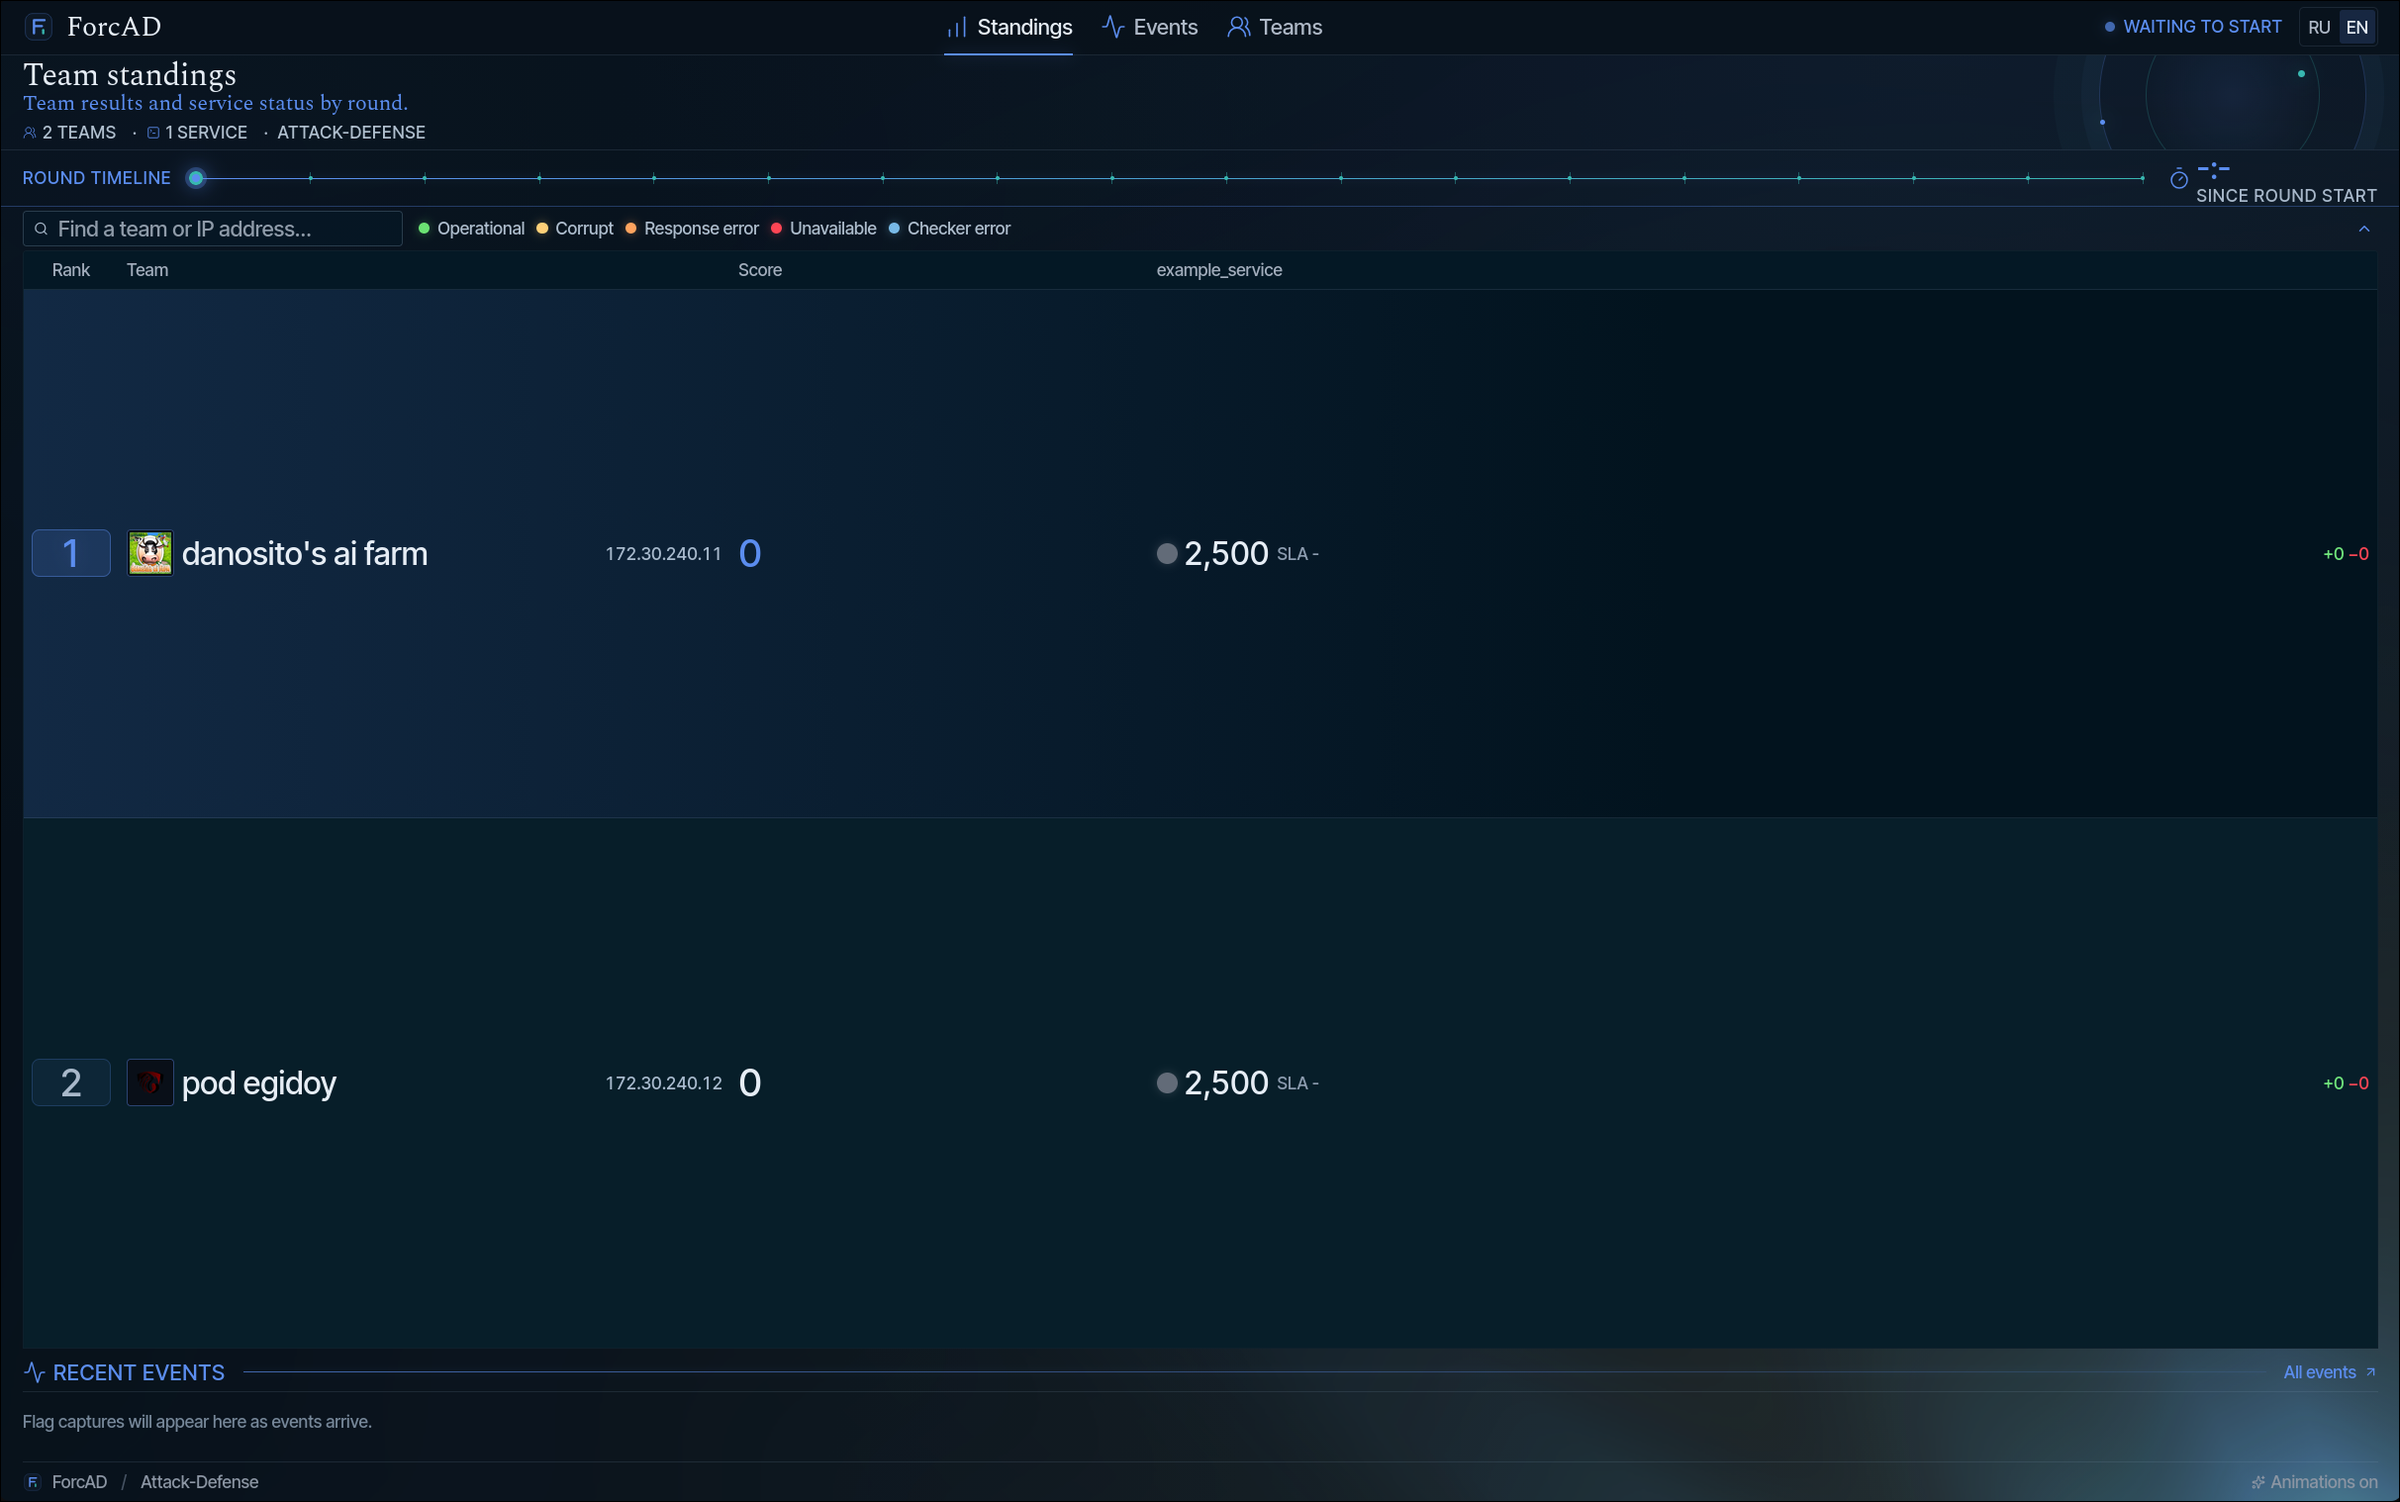
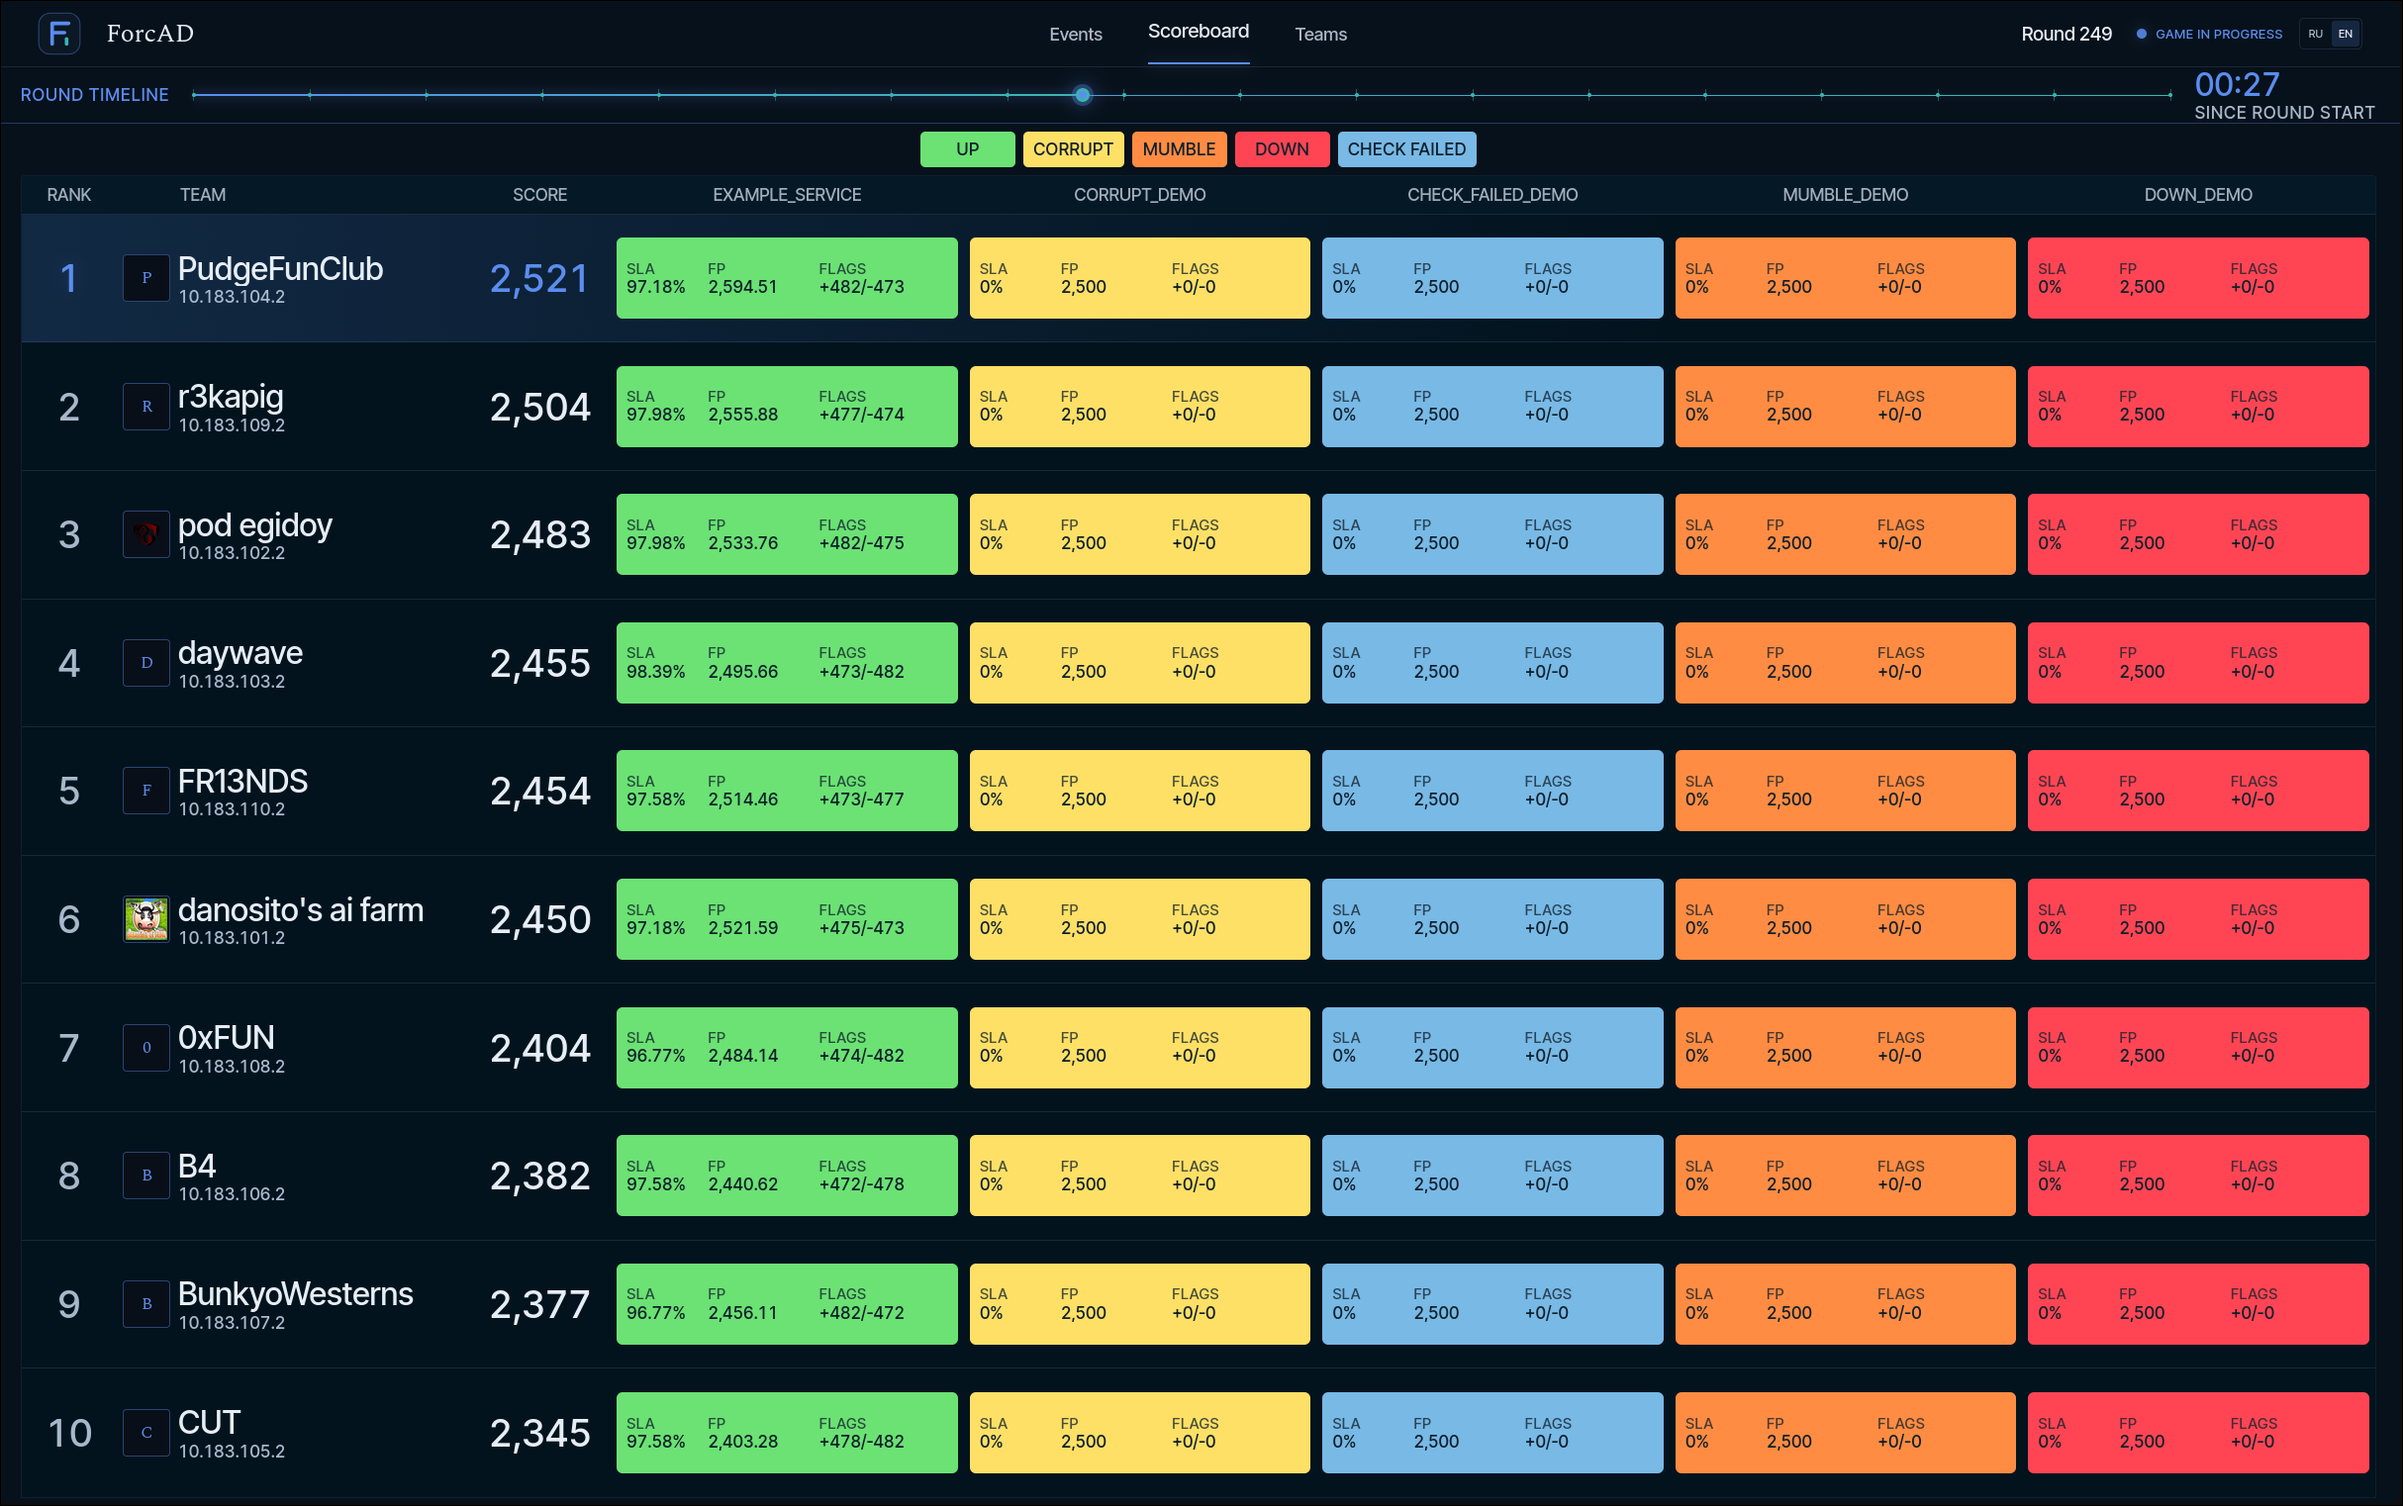
docs: refresh screenshots and show Grafana dashboard

diff --git a/README.md b/README.md
@@ -60,6 +60,8 @@ Grafana and Prometheus listen on localhost on the ForcAD host. See
 [Monitoring](docs/MONITORING.md) for the SSH tunnel, dashboards and the separate
 Router exporter setup for game traffic metrics.
 
+![Grafana game traffic dashboard](public/grafana.png)
+
 ## Documentation
 
 | Guide | Contents |
